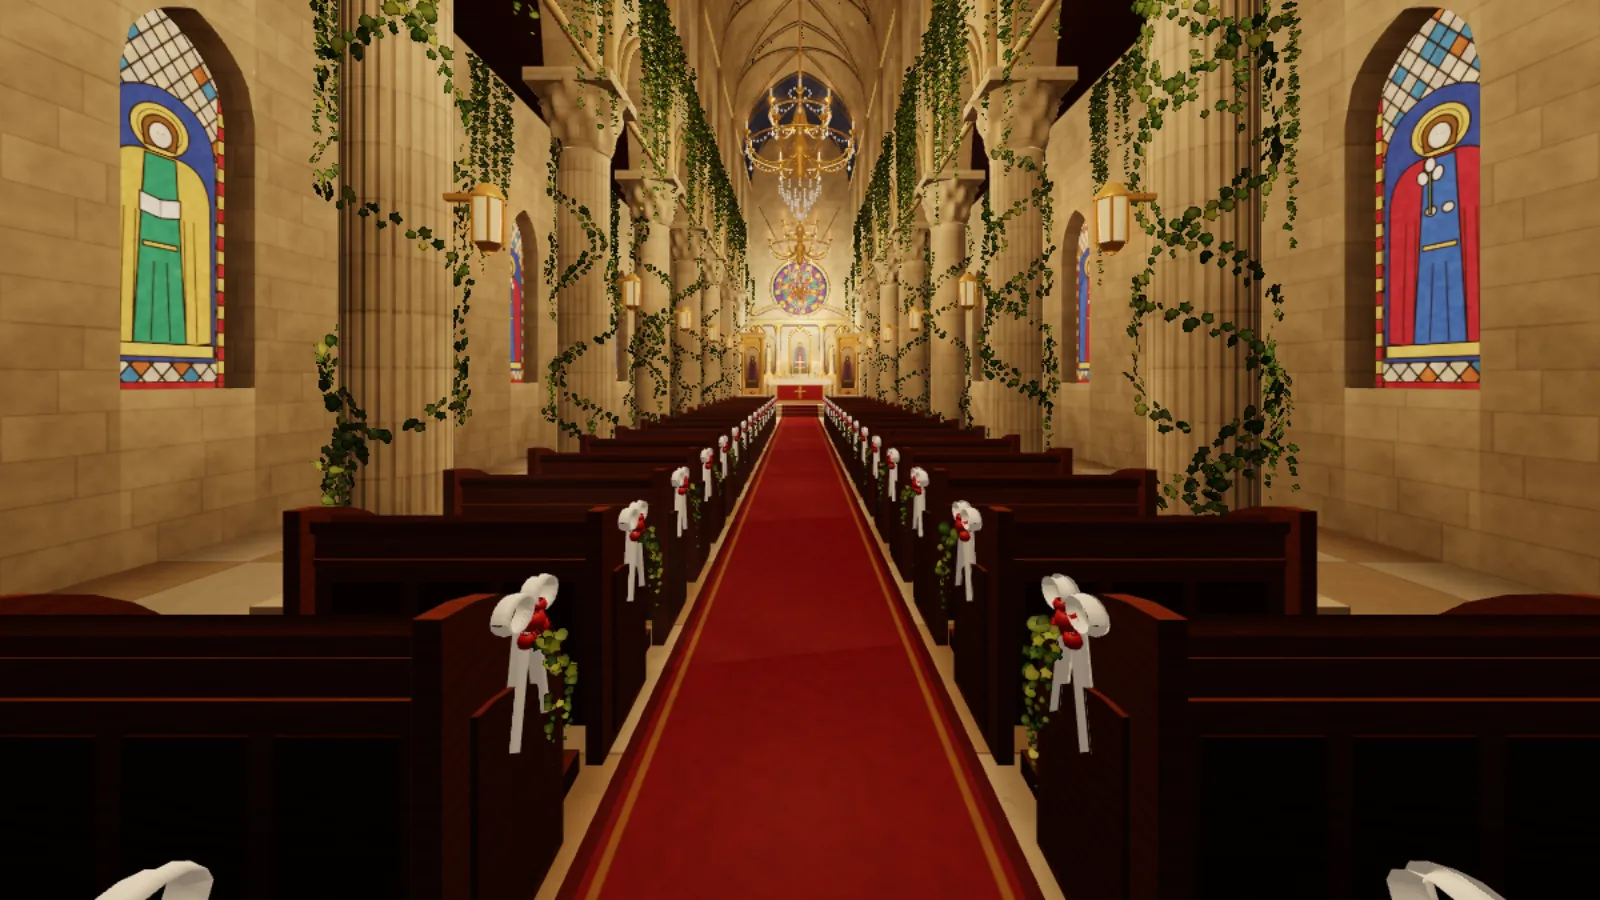
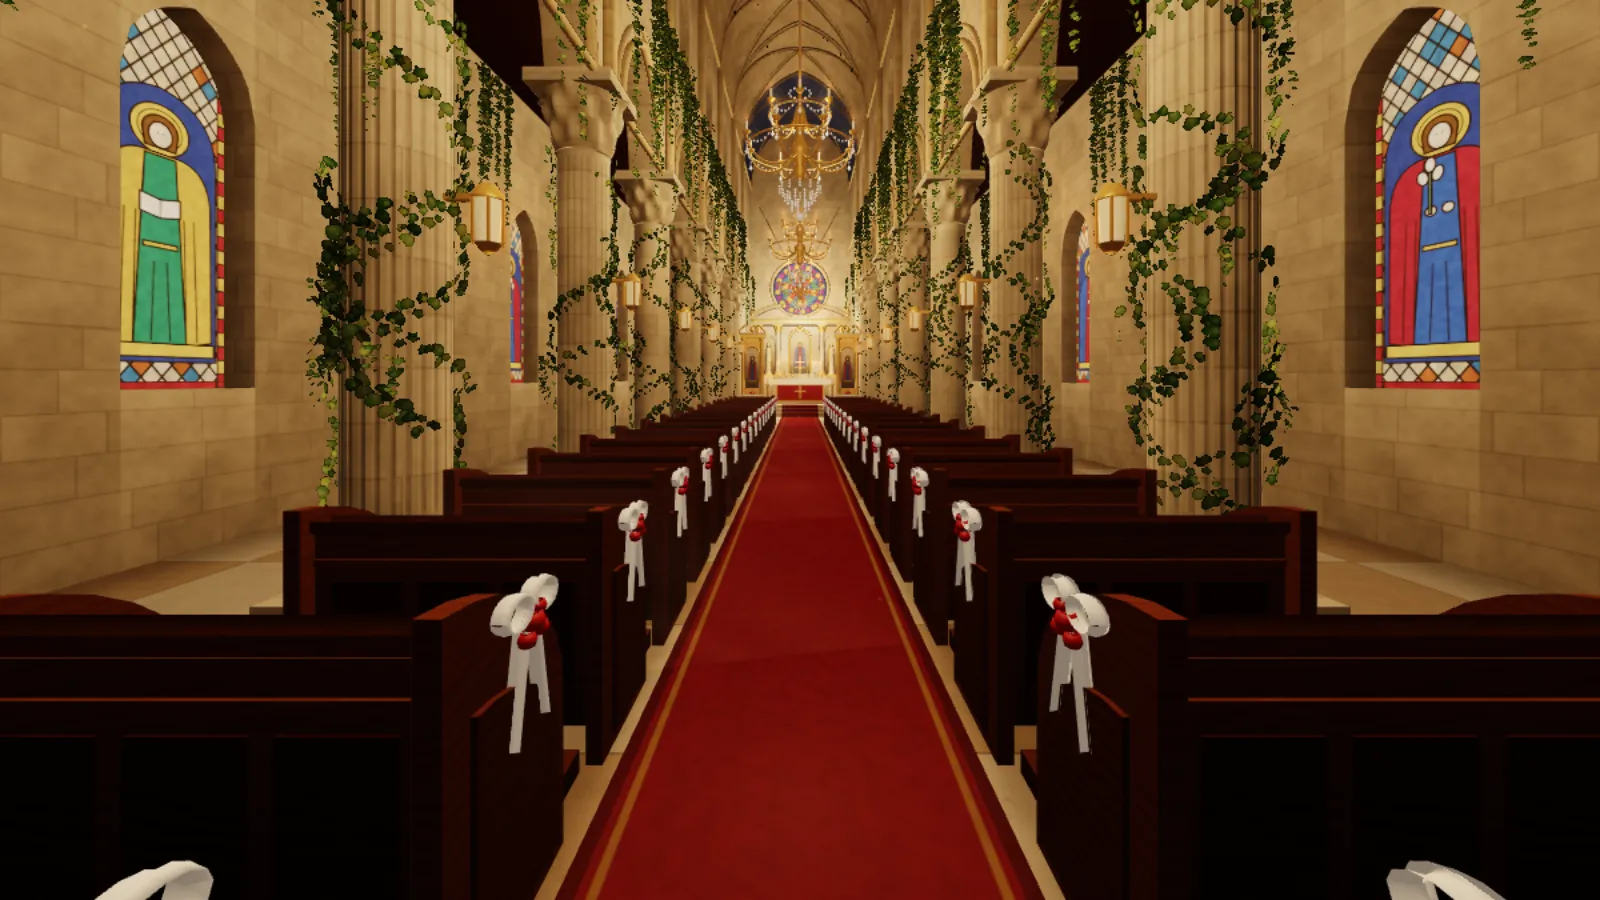
A little less ivy up high; no ivy on the pew bows
Over the arches the leaf mass is lighter and fewer strands fall (14 a
bay, from 20); the window sills and the vault ribs carry fewer tendrils.
The ivy climbing the pillars is unchanged. The pew-end bows are now
white tulle and red roses only. Still pictures and the link preview are
re-rendered; about 263k triangles (from 285k).

Claude-Session: https://claude.ai/code/session_01C6WdL5bVH3JZbrkZ3ou3Pp

diff --git a/assets/js/nave.js b/assets/js/nave.js
@@ -1012,9 +1012,9 @@
       }
     }
 
-    // wedding flowers on the pew ends: a white tulle bow, red roses and a trail of ivy
+    // wedding flowers on the pew ends: a white tulle bow and red roses
     for (var pr2 = M.pewFrom; pr2 <= M.pewTo + .01; pr2 += 1) {
-      // a white tulle bow with red roses and a trail of ivy on each pew end
+      // a white tulle bow with red roses on each pew end
       [-1, 1].forEach(function (s) {
         var px = s * (M.pewIn - .06), py = .9, pz = pr2 + .26, tl = mesh("tulle"), rs = mesh("rosebud");
         [-1, 1].forEach(function (k) {
@@ -1024,7 +1024,6 @@
         [[0, 0, .036], [-.035, .04, .028], [-.04, -.035, .028], [.03, .03, .025]].forEach(function (b) {
           lathe(rs, px - s * .02, py + b[0], pz + b[1], [[0, -b[2]], [b[2] * .8, -b[2] * .6], [b[2], 0], [b[2] * .7, b[2] * .7], [0, b[2] * .55]], 8);
         });
-        hang([px - s * .01, py + .02, pz + .03], [-s, 0, 0], .45 + rv() * .25, .1); hang([px - s * .01, py + .02, pz - .04], [-s, 0, 0], .3 + rv() * .2, .1);
       });
     }
     // two tall candle stands before the steps, where the couple will stand
@@ -1068,14 +1067,14 @@
         var z0 = M.firstPier + bay * M.bay;
         // over each arch: a thick mass along the string course, and strands pouring down,
         // longest over the middle of the arch, short where the pier tops are in the way
-        mass([xw, COURSE + .12, z0], [0, 0, 1], M.bay, .7);
-        for (var sn = 0; sn < 20; sn++) {
+        mass([xw, COURSE + .12, z0], [0, 0, 1], M.bay * .7, .6);
+        for (var sn = 0; sn < 14; sn++) {
           var zz = z0 + .1 + rv() * (M.bay - .2), dp = Math.min(Math.abs(zz - z0), Math.abs(zz - z0 - M.bay));
           var len = dp < .6 ? .5 + rv() * 1.6 : .9 + Math.pow(rv(), .7) * 2.7;
           hang([xw, COURSE + .05 - rv() * .2, zz], out, len);
         }
         // a little spilling from the clerestory sill
-        for (var sl = 0; sl < 3; sl++) hang([xw, COURSE + .42, z0 + M.bay / 2 + (rv() - .5) * .8], out, .3 + rv() * .7, .13);
+        for (var sl = 0; sl < 2; sl++) hang([xw, COURSE + .42, z0 + M.bay / 2 + (rv() - .5) * .8], out, .3 + rv() * .7, .13);
         // the outer aisle walls, beside the windows
         [z0 + .3, z0 + M.bay - .3].forEach(function (za) { mass([s * (M.aisleX - .05), 7.1, za - .3], [0, 0, 1], .6, .3); for (var aw = 0; aw < 3; aw++) hang([s * (M.aisleX - .05), 7.05, za + (rv() - .5) * .5], out, 1 + rv() * 3); });
       }
@@ -1089,7 +1088,7 @@
       hang([xp - s * .4, SPRING - .05, zp - .2], [-s * .6, 0, -.8], .4 + rv() * .8, .13);
     });
     // tendrils hanging from the vault's ribs, like the greenery overhead in the reference
-    for (var rb = 1; rb < M.piers; rb++) for (var tn = 0; tn < 10; tn++) {
+    for (var rb = 1; rb < M.piers; rb++) for (var tn = 0; tn < 6; tn++) {
       var xv = (rv() * 2 - 1) * 2.0;
       hang([xv, vaultY(xv) - .1, M.firstPier + rb * M.bay - .05], [-xv * .15, 0, -1], .4 + Math.pow(rv(), 1.3) * 1.5, .14);
     }

diff --git a/index.html b/index.html
@@ -17,7 +17,7 @@
   <meta property="og:title" content="Jibin Varghese &amp; Sofia John · 25 April 2027">
   <meta property="og:description" content="With the grace of God, we invite you to celebrate our wedding in Kozhikode, Kerala.">
   <meta property="og:url" content="https://jibin-varghese.github.io/jibin-weds-sofia/">
-  <meta property="og:image" content="https://jibin-varghese.github.io/jibin-weds-sofia/assets/images/og-image.jpg?v=5">
+  <meta property="og:image" content="https://jibin-varghese.github.io/jibin-weds-sofia/assets/images/og-image.jpg?v=6">
   <meta property="og:image:width" content="1200">
   <meta property="og:image:height" content="630">
   <meta name="twitter:card" content="summary_large_image">
@@ -34,13 +34,13 @@
   <link rel="preload" href="assets/fonts/jost-latin-500-normal.woff2" as="font" type="font/woff2" crossorigin>
   <!-- ?v=… makes every browser fetch fresh files after an update (phones can keep
        old copies for days). Change the number on every update, here and in config.js. -->
-  <link rel="stylesheet" href="assets/css/styles.css?v=20261102e">
+  <link rel="stylesheet" href="assets/css/styles.css?v=20261102f">
 
   <!-- the journey layout from the very first paint (main.js falls back to the still page if it can't run) -->
   <script>(function (r) { r.classList.replace('no-js', 'js'); if (!(window.matchMedia && matchMedia('(prefers-reduced-motion: reduce)').matches)) r.classList.add('journey'); })(document.documentElement);</script>
   <script src="config.js?v=20261024m" defer></script>
   <script src="assets/js/rsvp.js?v=20261024m" defer></script>
-  <script src="assets/js/nave.js?v=20261102e" defer></script>
+  <script src="assets/js/nave.js?v=20261102f" defer></script>
   <script src="assets/js/journey.js?v=20261102b" defer></script>
   <script src="assets/js/main.js?v=20261102c" defer></script>
 </head>

diff --git a/assets/css/styles.css b/assets/css/styles.css
@@ -203,8 +203,8 @@ h1, h2, h3, p, .invite__lines p, .verse__text { text-wrap: balance; }
 .nave > * { position: absolute; }
 .nave__gl { inset: 0; width: 100%; height: 100%; display: block; }
 .nave--still { background: var(--nave-black); }
-.nave--still::after { content: ""; position: absolute; inset: 0; background: url("../images/nave/still-portrait.webp?v=20261102e") 50% 40% / cover no-repeat; }
-@media (min-aspect-ratio: 1/1) { .nave--still::after { background-image: url("../images/nave/still-landscape.webp?v=20261102e"); } }
+.nave--still::after { content: ""; position: absolute; inset: 0; background: url("../images/nave/still-portrait.webp?v=20261102f") 50% 40% / cover no-repeat; }
+@media (min-aspect-ratio: 1/1) { .nave--still::after { background-image: url("../images/nave/still-landscape.webp?v=20261102f"); } }
 .nave__vignette { inset: 0; z-index: 5; background: radial-gradient(130% 95% at 50% 42%, rgba(0, 0, 0, 0) 55%, rgba(0, 0, 0, .55) 100%); }
 
 /* ======================================================= HERO (film) */

diff --git a/README.md b/README.md
@@ -65,7 +65,7 @@ Keep the stations and the camera points in step.
 | Layer | File | Notes |
 |---|---|---|
 | Opening picture | `assets/images/hero/hero-portrait.webp`, `hero-landscape.webp` | the top of your collage, fading into the dark where the names sit; on wide screens it stands over a blurred copy of itself |
-| The church | `assets/js/nave.js` | real 3D, built and painted in code on load: fluted columns with leafy capitals, pointed arcades, a rib vault (starry over the sanctuary), stained-glass lancets with saints (halo, robe and cloak, holding a cross, a lily or a book; three designs alternating) and a rose window, panelled pews, four crystal chandeliers (gilded arms, swags of crystal beads, drops, a crown and a cascade), lanterns, marble steps, the altar with its crimson frontal, white linen and candles; behind it a classical high altar: four white marble columns with gilded capitals, a central painting of a saint in a gilded round-topped frame, white marble statues of saints between the columns, a gilded frieze and a broken pediment crowned by a golden sunburst and cross that stand against the rose window; two gilded side altars flanking the chancel, each with a painting, candles and red roses; ivy everywhere, grown leaf by leaf in code (each leaf its own small quad, from an atlas of 16 painted ivy and creeper leaves): thick masses spilling over every arch and strands falling from them, stems climbing every pillar, tendrils hanging from the vault ribs, ivy framing the altar and down the aisle walls; a white tulle bow with red roses and trailing ivy on every pew end. Nothing to download |
+| The church | `assets/js/nave.js` | real 3D, built and painted in code on load: fluted columns with leafy capitals, pointed arcades, a rib vault (starry over the sanctuary), stained-glass lancets with saints (halo, robe and cloak, holding a cross, a lily or a book; three designs alternating) and a rose window, panelled pews, four crystal chandeliers (gilded arms, swags of crystal beads, drops, a crown and a cascade), lanterns, marble steps, the altar with its crimson frontal, white linen and candles; behind it a classical high altar: four white marble columns with gilded capitals, a central painting of a saint in a gilded round-topped frame, white marble statues of saints between the columns, a gilded frieze and a broken pediment crowned by a golden sunburst and cross that stand against the rose window; two gilded side altars flanking the chancel, each with a painting, candles and red roses; ivy everywhere, grown leaf by leaf in code (each leaf its own small quad, from an atlas of 16 painted ivy and creeper leaves): thick masses spilling over every arch and strands falling from them, stems climbing every pillar, tendrils hanging from the vault ribs, ivy framing the altar and down the aisle walls; a white tulle bow with red roses on every pew end. Nothing to download |
 | Still church (no graphics chip, or "reduce motion") | `assets/images/nave/still-portrait.webp`, `still-landscape.webp` | renders of the same church (re-render them after changing `nave.js`) |
 | The couple (finale) | `assets/images/closing/couple-arches.webp` | your AI-generated photo |
 
